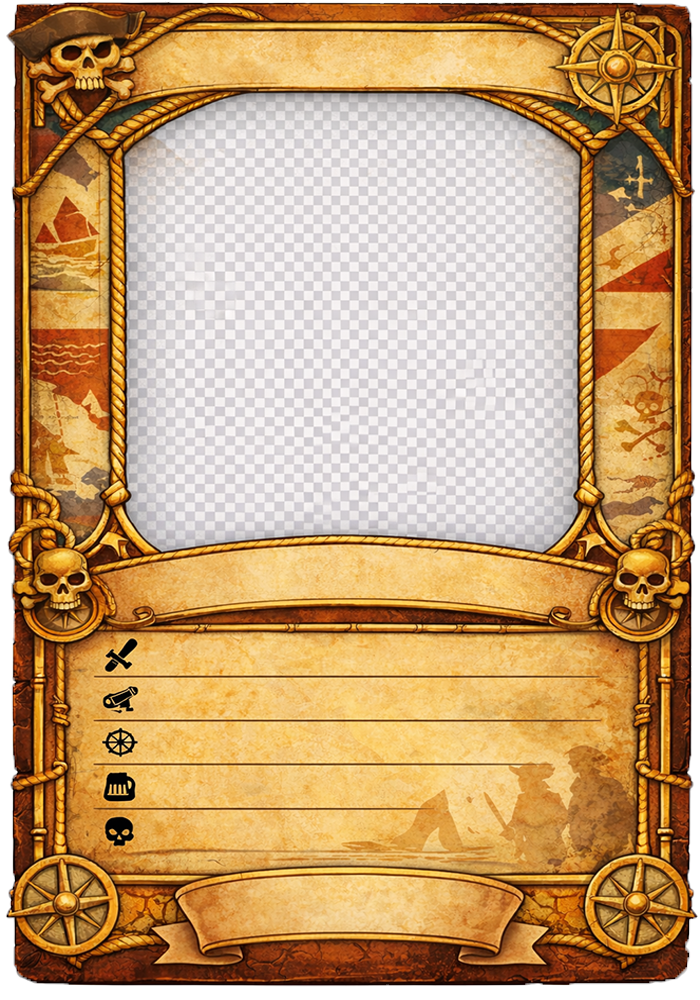
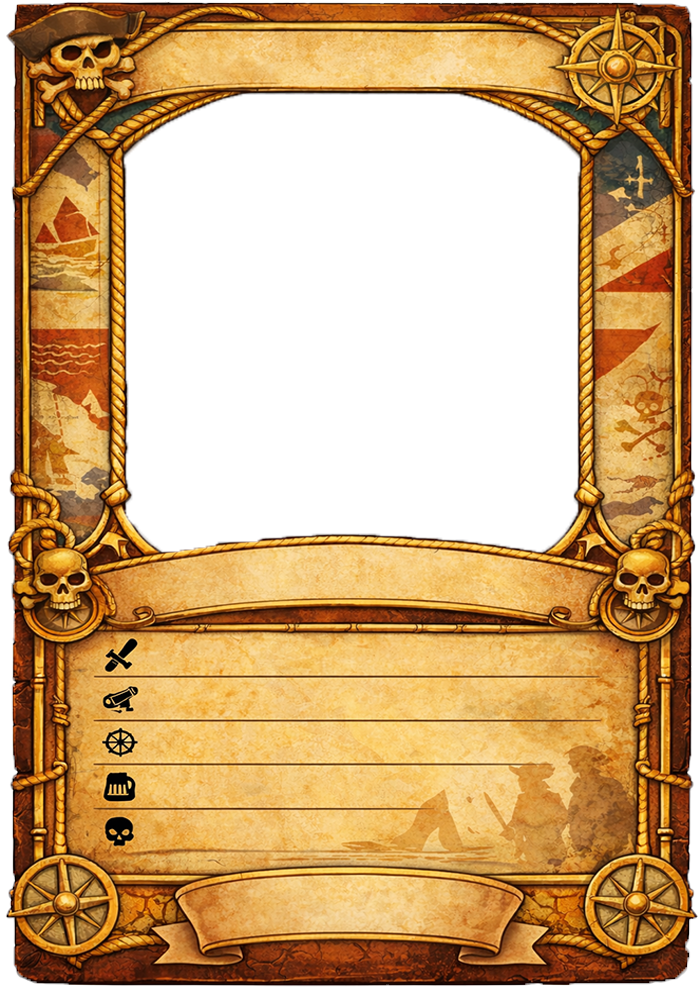
Add pirate Profile V2

Changed region(s): [[0.18, 0.093, 0.84, 0.558]]

diff --git a/src/systems/pirateCardCanvas.js b/src/systems/pirateCardCanvas.js
@@ -1,105 +1,87 @@
+const path = require("path");
 const { createCanvas, loadImage, registerFont } = require("canvas");
 const { AttachmentBuilder } = require("discord.js");
 
-// Load Pirate Font
-registerFont("./src/assets/fonts/PirataOne-Regular.ttf", {
- family: "Pirata One"
+// Load Pirate Font (absolute path)
+const fontPath = path.join(__dirname, "../assets/fonts/PirataOne-Regular.ttf");
+
+registerFont(fontPath, {
+    family: "PirataOne"
 });
-
-// Automatically shrink text if too long
-function fitText(ctx, text, maxWidth, startSize) {
-
- let size = startSize;
-
- do {
-  ctx.font = `${size}px "Pirata One"`;
-  size--;
- } while (ctx.measureText(text).width > maxWidth && size > 20);
-
- return ctx.font;
-}
 
 async function drawCard(photoURL, card) {
 
- const width = 700;
- const height = 1000;
+    const width = 700;
+    const height = 1000;
 
- const canvas = createCanvas(width, height);
- const ctx = canvas.getContext("2d");
+    const canvas = createCanvas(width, height);
+    const ctx = canvas.getContext("2d");
 
- const portrait = await loadImage(photoURL);
- const frame = await loadImage("./src/assets/cards/base-card.png");
+    const portrait = await loadImage(photoURL);
+    const frame = await loadImage(
+        path.join(__dirname, "../assets/cards/base-card.png")
+    );
 
- // Portrait (draw first)
+    // ---- Draw Portrait ----
+    ctx.save();
 
- const portraitX = 120;
- const portraitY = 130;
- const portraitW = 460;
- const portraitH = 360;
+    ctx.beginPath();
+    ctx.rect(120, 130, 460, 360);
+    ctx.clip();
 
- const size = Math.min(portrait.width, portrait.height);
+    ctx.drawImage(portrait, 120, 130, 460, 360);
 
- ctx.drawImage(
-  portrait,
-  (portrait.width - size) / 2,
-  (portrait.height - size) / 2,
-  size,
-  size,
-  portraitX,
-  portraitY,
-  portraitW,
-  portraitH
- );
+    ctx.restore();
 
- // Card frame on top
- ctx.drawImage(frame, 0, 0, width, height);
+    // ---- Draw Frame on top ----
+    ctx.drawImage(frame, 0, 0, width, height);
 
- ctx.fillStyle = "#2a1a0a";
- ctx.textAlign = "center";
+    ctx.fillStyle = "#2a1a0a";
+    ctx.textAlign = "center";
 
- // Pirate Name
- ctx.font = fitText(ctx, card.name, 500, 52);
- ctx.fillText(card.name, 350, 90);
+    // ---- Pirate Name ----
+    ctx.font = '52px "PirataOne"';
+    ctx.fillText(card.name, 350, 95);
 
- // Pirate Title
- ctx.font = fitText(ctx, card.title, 420, 36);
- ctx.fillText(card.title, 350, 520);
+    // ---- Pirate Title ----
+    ctx.font = '36px "PirataOne"';
+    ctx.fillText(card.title, 350, 515);
 
- // Stats
- ctx.textAlign = "left";
- ctx.font = `32px "Pirata One"`;
+    // ---- Stats ----
+    ctx.textAlign = "left";
+    ctx.font = '32px "PirataOne"';
 
- ctx.fillText(card.stats.sword, 260, 640);
- ctx.fillText(card.stats.cannon, 260, 690);
- ctx.fillText(card.stats.navigation, 260, 740);
- ctx.fillText(card.stats.rum, 260, 790);
- ctx.fillText(card.stats.chaos, 260, 840);
+    ctx.fillText(card.stats.sword, 300, 640);
+    ctx.fillText(card.stats.cannon, 300, 690);
+    ctx.fillText(card.stats.navigation, 300, 740);
+    ctx.fillText(card.stats.rum, 300, 790);
+    ctx.fillText(card.stats.chaos, 300, 840);
 
- // Rarity Colors
- const rarityColors = {
-  Common: "#c9c9c9",
-  Rare: "#3aa0ff",
-  Epic: "#b84cff",
-  Legendary: "#ffd700"
- };
+    // ---- Rarity Colors ----
+    const rarityColors = {
+        Common: "#c9c9c9",
+        Rare: "#3aa0ff",
+        Epic: "#b84cff",
+        Legendary: "#ffd700"
+    };
 
- ctx.fillStyle = rarityColors[card.rarity] || "#ffffff";
+    ctx.fillStyle = rarityColors[card.rarity] || "#ffffff";
 
- ctx.textAlign = "center";
- ctx.font = `46px "Pirata One"`;
+    ctx.textAlign = "center";
+    ctx.font = '46px "PirataOne"';
 
- ctx.fillText(card.rarity.toUpperCase(), 350, 930);
+    ctx.fillText(card.rarity.toUpperCase(), 350, 930);
 
- // Card number
- ctx.fillStyle = "#2a1a0a";
- ctx.font = `22px "Pirata One"`;
- ctx.textAlign = "right";
+    // ---- Card Number ----
+    ctx.fillStyle = "#2a1a0a";
+    ctx.font = '22px "PirataOne"';
+    ctx.textAlign = "right";
 
- ctx.fillText(`#${card.cardNumber}/500`, 660, 40);
+    ctx.fillText(`#${card.cardNumber}/500`, 660, 40);
 
- return new AttachmentBuilder(canvas.toBuffer(), {
-  name: "pirate-card.png"
- });
+    return new AttachmentBuilder(canvas.toBuffer(), {
+        name: "pirate-card.png"
+    });
 }
 
 module.exports = drawCard;
